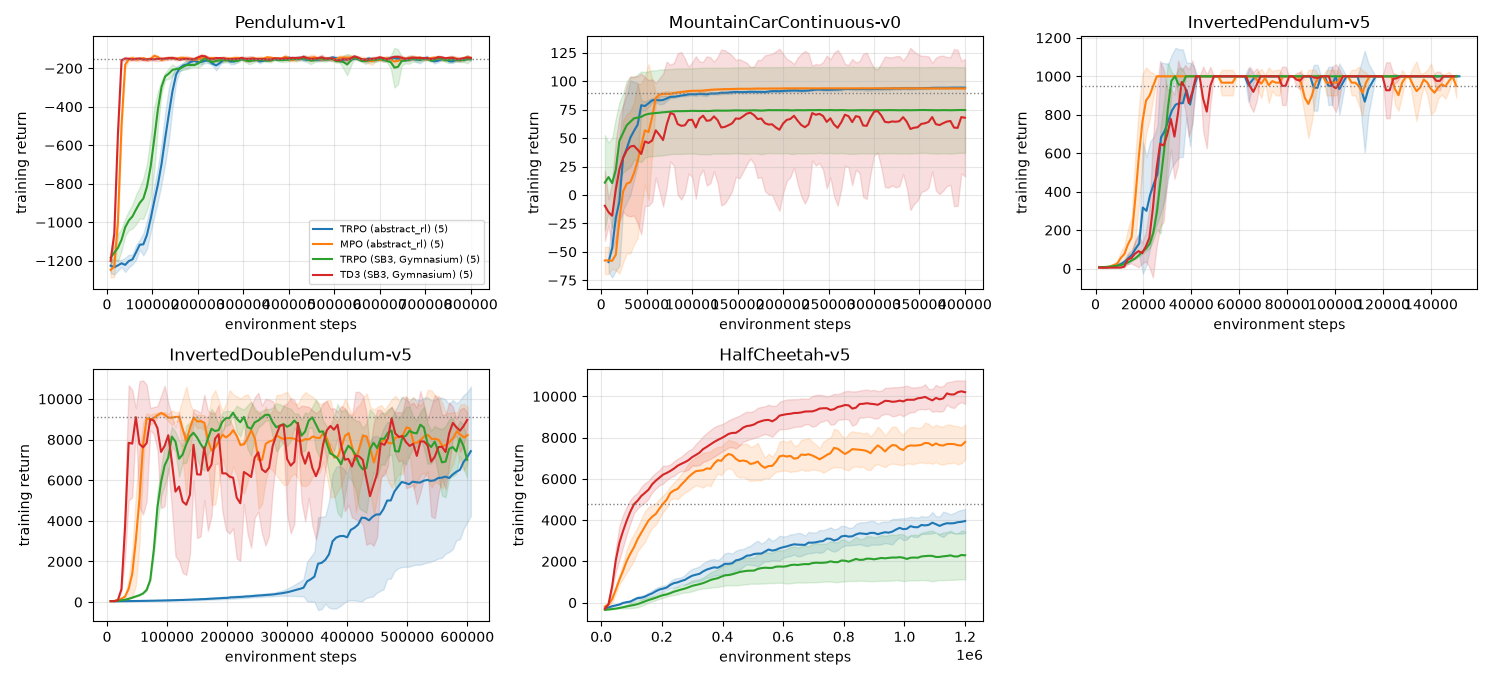
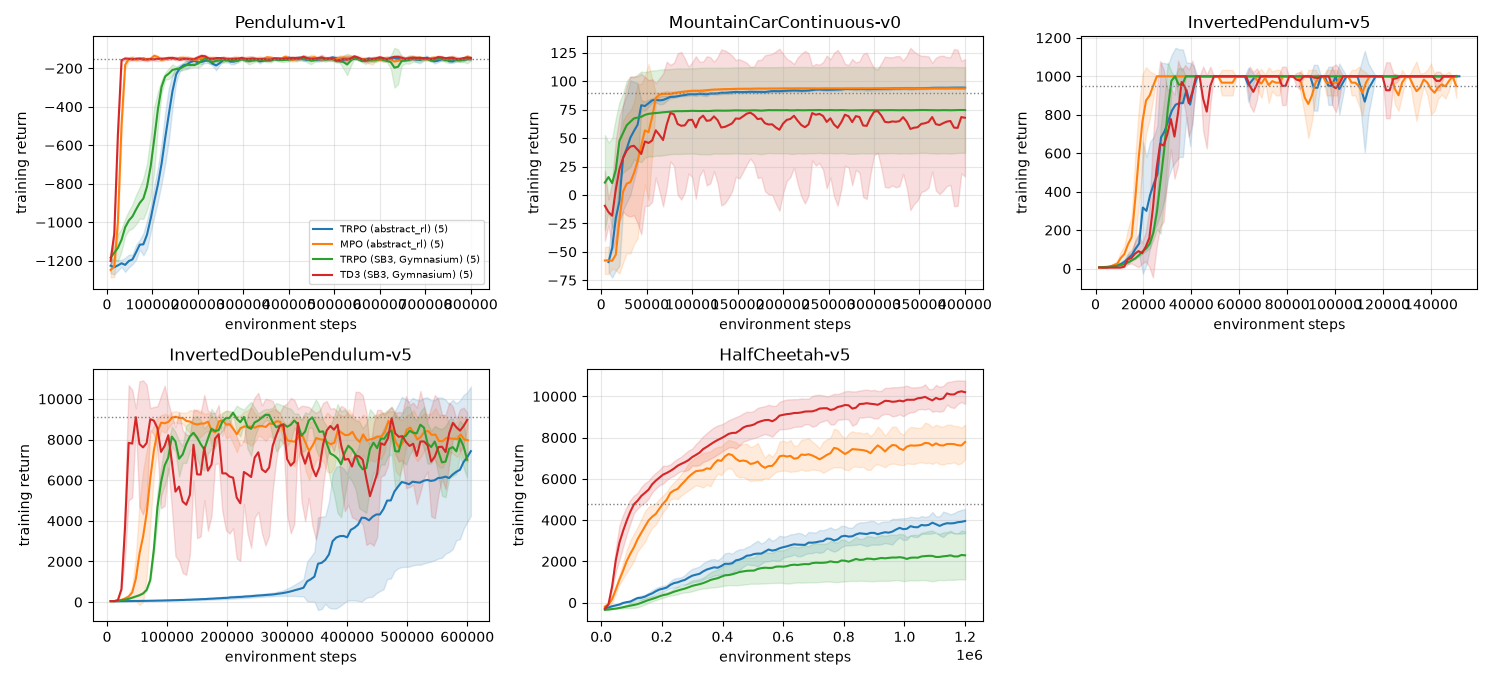
Tune InvertedDoublePendulum MPO to a KL trust region of 0.0025 and update the benchmark results.

Changed region(s): [[0.0613, 0.5559, 0.3373, 0.8956]]

diff --git a/README.md b/README.md
@@ -132,7 +132,7 @@ re-derived for the JAX environments, which reproduce Gymnasium's dynamics and re
 | InvertedPendulum-v5 (≥ 950) | TRPO (SB3, Gymnasium) | 5 | 150,523 | 1000.0 ± 0.0 | 5/5 | 29,000 (5/5) |
 | InvertedPendulum-v5 (≥ 950) | TD3 (SB3, Gymnasium) | 5 | 149,310 | 1000.0 ± 0.0 | 5/5 | 25,000 (5/5) |
 | InvertedDoublePendulum-v5 (≥ 9100) | TRPO (abstract_rl) | 5 | 604,394 | 7574.9 ± 3303.2 | 3/5 | 457,454 (3/5) |
-| InvertedDoublePendulum-v5 (≥ 9100) | MPO (abstract_rl) | 5 | 600,288 | 8771.4 ± 731.9 | 2/5 | 60,060 (5/5) |
+| InvertedDoublePendulum-v5 (≥ 9100) | MPO (abstract_rl) | 5 | 600,559 | 8787.8 ± 730.7 | 3/5 | 84,126 (5/5) |
 | InvertedDoublePendulum-v5 (≥ 9100) | TRPO (SB3, Gymnasium) | 5 | 599,517 | 8270.3 ± 602.2 | 0/5 | 107,946 (5/5) |
 | InvertedDoublePendulum-v5 (≥ 9100) | TD3 (SB3, Gymnasium) | 5 | 599,243 | 9347.9 ± 10.3 | 5/5 | 26,996 (5/5) |
 | HalfCheetah-v5 (≥ 4800) | TRPO (abstract_rl) | 5 | 1,200,000 | 4433.2 ± 485.5 | 1/5 | 1,080,000 (1/5) |
@@ -151,7 +151,7 @@ Compared with the torch implementation on `main` (greedy return, solved seeds):
 | Pendulum-v1 | -127.7 ± 2.7, 5/5 | -111.3 ± 1.3, 5/5 | -123.3 ± 0.4, 5/5 | -106.2 ± 1.4, 5/5 |
 | MountainCarContinuous-v0 | 94.1 ± 0.7, 5/5 | 94.9 ± 0.5, 5/5 | 93.6 ± 0.0, 5/5 | 93.7 ± 0.1, 5/5 |
 | InvertedPendulum-v5 | 1000.0 ± 0.0, 5/5 | 1000.0 ± 0.0, 5/5 | 1000.0 ± 0.0, 5/5 | 1000.0 ± 0.0, 5/5 |
-| InvertedDoublePendulum-v5 | 9332.8 ± 3.8, 5/5 | 7574.9 ± 3303.2, **3/5** | 9332.9 ± 7.4, 5/5 | 8771.4 ± 731.9, **2/5** |
+| InvertedDoublePendulum-v5 | 9332.8 ± 3.8, 5/5 | 7574.9 ± 3303.2, **3/5** | 9332.9 ± 7.4, 5/5 | 8787.8 ± 730.7, **3/5** |
 | HalfCheetah-v5 | 4471.7 ± 1645.7, 3/5 | 4433.2 ± 485.5, **1/5** | 7940.5 ± 1398.2, 5/5 | 8761.8 ± 1083.8, 5/5 |
 
 - **Where JAX matches or beats torch.** Pendulum, MountainCar, InvertedPendulum and HalfCheetah MPO solve 5/5 seeds as
@@ -169,20 +169,22 @@ Compared with the torch implementation on `main` (greedy return, solved seeds):
     falls. Seed 5 (977) has not learned to balance within the budget; its training return was still rising
     (mean 725 over epochs 62-68, 1036 over epochs 69-75). A trial with a KL trust region of 0.01 instead of 0.005
     also gave 3/5 (mean 9157, every failure one falling episode out of 20), so `main`'s 0.005 is kept.
-  - *InvertedDoublePendulum MPO: 2/5 instead of 5/5* (greedy 9334, 9357, 8897, 8907 and 7362). Every seed reaches
-    the threshold in training (median 60k steps, `main` 66k). The final policies of seeds 3 and 4 drop one of their
-    20 greedy episodes. Seed 5 drops 6 of 20, and its training return falls at the end (mean 5386 over epochs
-    481-540, 4308 over epochs 541-600): the kind of late collapse that `main` removed in torch by halving the KL
-    trust region to 0.005, which these runs already use. No further tuning was run.
+  - *InvertedDoublePendulum MPO: 3/5 instead of 5/5* (greedy 7501, 9329, 9336, 8438 and 9335). Every seed reaches
+    the threshold in training (median 84k steps, `main` 66k). Seeds 1 and 4 drop 4 and 2 of their 20 greedy
+    episodes. These runs use a KL trust region of 0.0025, half of `main`'s 0.005: with 0.005 the JAX port solved 2/5
+    (mean 8771; greedy 9334, 9357, 8897, 8907 and 7362), and seed 5 collapsed late in training (mean 5386 over epochs
+    481-540, 4308 over 541-600). The smaller trust region was the one tuning trial for this cell and raised both the
+    solved count and the mean, so it is the tuned setting now.
   - *The InvertedDoublePendulum falls come from the policies, not from the JAX environment.* Run in Gymnasium's
     float64 MuJoCo from the same start states, the policies fall on the same episodes at the same steps, and a
-    float64 JAX env does not remove the falls. 8 of the 10 runs fall on about 1-2 % of start states, mostly shortly
-    after the reset. With 20 evaluation episodes, a single fall is enough to drop a seed below 9100. MPO seed 5 is
-    a marginal balancer (about half of its episodes fall), and TRPO seed 5 never learned to balance within the
-    budget.
+    float64 JAX env does not remove the falls. This cross-check was run on the TRPO runs and the MPO runs with
+    trust region 0.005: 8 of those 10 runs fall on about 1-2 % of start states, mostly shortly after the reset. With
+    20 evaluation episodes, a single fall is enough to drop a seed below 9100. MPO seed 5 (0.005) was a marginal
+    balancer (about half of its episodes fall), and TRPO seed 5 never learned to balance within the budget.
   - *Steps to threshold* is slower than torch for MountainCar TRPO (128k vs 44k; all seeds still solve), MountainCar
-    MPO (70k vs 56k), Pendulum MPO (44k vs 36k), InvertedDoublePendulum TRPO (457k vs 431k, over 3 instead of 5
-    seeds) and HalfCheetah TRPO (1.08M for 1 seed vs 732k for 2). It is equal or faster for the other cells.
+    MPO (70k vs 56k), Pendulum MPO (44k vs 36k), InvertedDoublePendulum MPO (84k vs 66k), InvertedDoublePendulum
+    TRPO (457k vs 431k, over 3 instead of 5 seeds) and HalfCheetah TRPO (1.08M for 1 seed vs 732k for 2). It is equal
+    or faster for the other cells.
 - **Environments (spec D5).** gymnax provides Pendulum-v1 and MountainCarContinuous-v0. InvertedPendulum-v5 and
   InvertedDoublePendulum-v5 run Gymnasium's own XML on MJX with RK4, Gymnasium's frame skip (2 and 5), reward,
   termination, observations (4 and 9 dims), reset noise and `ctrl = action`. Their trajectories match Gymnasium v5 to
@@ -191,12 +193,12 @@ Compared with the torch implementation on `main` (greedy return, solved seeds):
   thighs and feet collide with the floor, and the forward-velocity reward lags one 0.01 s substep. The lag moves an
   episode's return by well under 0.1 % of the threshold, and open-loop returns match Gymnasium, so the threshold of
   4800 is kept.
-- **Tuned settings (unchanged from `main`, see `conf/tune/`):**
+- **Tuned settings (from `main` except InvertedDoublePendulum MPO, see `conf/tune/`):**
   - Pendulum: TRPO discount 0.95; MPO E-step epsilon `rnk_eps` 0.05.
   - MountainCar: MPO uses a fixed (not learned) exploration std of 2.0. A learned std shrinks to ≈ 0 before the
     sparse goal is found.
-  - MPO, one setting each: a 300k replay memory (`tc_size`) on InvertedPendulum, and a KL trust region of 0.005 on
-    InvertedDoublePendulum.
+  - MPO, one setting each: a 300k replay memory (`tc_size`) on InvertedPendulum, and a KL trust region of 0.0025 on
+    InvertedDoublePendulum (`main`: 0.005, see above).
   - TRPO: InvertedDoublePendulum uses 75 × 8000 steps and a KL trust region of 0.005. HalfCheetah uses 300 × 4000
     steps, a KL trust region of 0.02 and `obs_norm`. Both drop the value L2 penalty.
 - **Budgets.** TRPO epochs are `policy_batch_size` steps, and the episodes still running in the rollout lanes are
@@ -204,7 +206,7 @@ Compared with the torch implementation on `main` (greedy return, solved seeds):
   run with `max_env_steps` 400000; TRPO gets it via `--set max_env_steps=400000`, because finishing the lanes would
   otherwise give about 500k steps. All seeds of a run stop together once the seed with the most steps reaches the cap (D8),
   so the other seeds end between 380k and 400k steps. MPO stops after a fixed number of epochs and finishes the running episode, so on
-  InvertedDoublePendulum it runs past the budget: up to 22 % for the seed whose episodes fall mid-length. The learning
+  InvertedDoublePendulum it runs past the budget: up to 17 % for the seed whose episodes fall mid-length. The learning
   curves are cut at the budget; the greedy return is the one of the final policy.
 - **Pendulum balance check** (`scripts/eval_balance.py`, |θ| < 0.1 rad in the last 100 of 200 steps, 20 start
   states): TRPO and MPO balance in 5/5 seeds and 20/20 episodes each (max |θ| 0.001-0.034 rad TRPO, 0.021-0.089 rad
@@ -226,7 +228,7 @@ Compared with the torch implementation on `main` (greedy return, solved seeds):
   | Pendulum-v1 | 1.8 min | 3.4 h |
   | MountainCarContinuous-v0 | 1.2 min | 1.6 h |
   | InvertedPendulum-v5 | 2.5 min | 1.5 h (5 × 17-20 min, one seed at a time) |
-  | InvertedDoublePendulum-v5 | 18 min | 2.4 h |
+  | InvertedDoublePendulum-v5 | 18 min | 1.8 h |
   | HalfCheetah-v5 | 51 min | 5.6 h |
 
   Times are from `data/bench/timing.json` and exclude the greedy evaluation (2 s to 3.5 min per cell). Reproduce
